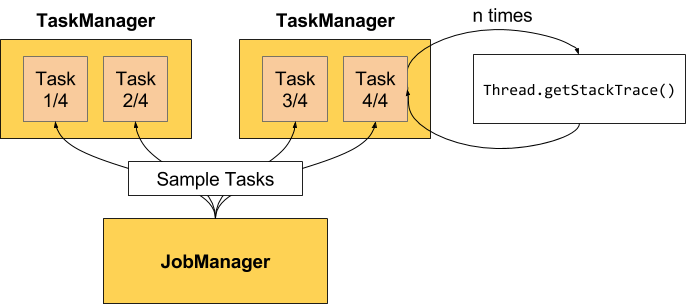
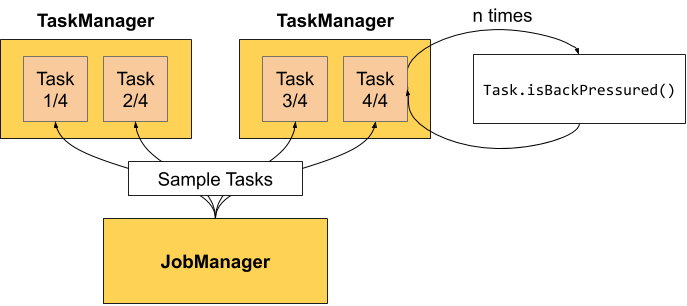
Fixup and update the document.

diff --git a/flink-runtime/src/test/java/org/apache/flink/runtime/rest/handler/legacy/backpressure/BackPressureStatsTrackerImplTest.java b/flink-runtime/src/test/java/org/apache/flink/runtime/rest/handler/legacy/backpressure/BackPressureStatsTrackerImplTest.java
@@ -20,6 +20,7 @@ package org.apache.flink.runtime.rest.handler.legacy.backpressure;
 
 import org.apache.flink.runtime.executiongraph.ExecutionAttemptID;
 import org.apache.flink.runtime.executiongraph.ExecutionJobVertex;
+import org.apache.flink.runtime.executiongraph.ExecutionJobVertexTest;
 import org.apache.flink.runtime.executiongraph.ExecutionVertex;
 import org.apache.flink.util.TestLogger;
 
@@ -45,39 +46,45 @@ public class BackPressureStatsTrackerImplTest extends TestLogger {
 
 	private static final int requestId = 0;
 	private static final double backPressureRatio = 0.1;
-	private static final ExecutionJobVertex executionJobVertex = BackPressureTrackerTestUtils.createExecutionJobVertex();
+	private static final ExecutionJobVertex executionJobVertex = createExecutionJobVertex();
 	private static final ExecutionVertex[] taskVertices = executionJobVertex.getTaskVertices();
 	private static final BackPressureStats backPressureStats = createBackPressureStats(requestId, 1, backPressureRatio);
+	private static final int cleanUpInterval = 60000;
+	private static final int backPressureStatsRefreshInterval = 60000;
+	private static final long timeGap = 60000;
 
 	@Rule
 	public Timeout caseTimeout = new Timeout(10, TimeUnit.SECONDS);
 
 	@Test
 	public void testGetOperatorBackPressureStats() throws Exception {
-		doInitialRequestAndVerifyTheResult(createBackPressureTracker(60000, 60000, backPressureStats));
+		doInitialRequestAndVerifyResult(createBackPressureTracker());
 	}
 
 	@Test
 	public void testCachedStatsNotUpdatedWithinRefreshInterval() throws Exception {
 		final double backPressureRatio2 = 0.2;
-		final BackPressureStats backPressureStats2 = createBackPressureStats(1, 60000, backPressureRatio2);
+		final int requestId2 = 1;
+		final BackPressureStats backPressureStats2 = createBackPressureStats(requestId2, timeGap, backPressureRatio2);
 
-		final BackPressureStatsTracker tracker = createBackPressureTracker(60000, 60000, backPressureStats, backPressureStats2);
-		doInitialRequestAndVerifyTheResult(tracker);
+		final BackPressureStatsTracker tracker = createBackPressureTracker(
+			cleanUpInterval, backPressureStatsRefreshInterval, backPressureStats, backPressureStats2);
+		doInitialRequestAndVerifyResult(tracker);
 		// verify that no new back pressure request is triggered
 		checkOperatorBackPressureStats(tracker.getOperatorBackPressureStats(executionJobVertex));
 	}
 
 	@Test
 	public void testCachedStatsUpdatedAfterRefreshInterval() throws Exception {
-		final int backPressureStatsRefreshInterval = 100;
-		final long waitingTime = backPressureStatsRefreshInterval + 100;
+		final int backPressureStatsRefreshInterval2 = 10;
+		final long waitingTime = backPressureStatsRefreshInterval2 + 10;
 		final double backPressureRatio2 = 0.2;
-		final BackPressureStats backPressureStats2 = createBackPressureStats(1, 60000, backPressureRatio2);
+		final int requestId2 = 1;
+		final BackPressureStats backPressureStats2 = createBackPressureStats(requestId2, timeGap, backPressureRatio2);
 
 		final BackPressureStatsTracker tracker = createBackPressureTracker(
-			60000, backPressureStatsRefreshInterval, backPressureStats, backPressureStats2);
-		doInitialRequestAndVerifyTheResult(tracker);
+			cleanUpInterval, backPressureStatsRefreshInterval2, backPressureStats, backPressureStats2);
+		doInitialRequestAndVerifyResult(tracker);
 
 		// ensure that we are ready for next request
 		Thread.sleep(waitingTime);
@@ -89,8 +96,8 @@ public class BackPressureStatsTrackerImplTest extends TestLogger {
 
 	@Test
 	public void testShutDown() throws Exception {
-		final BackPressureStatsTracker tracker = createBackPressureTracker(60000, 60000, backPressureStats);
-		doInitialRequestAndVerifyTheResult(tracker);
+		final BackPressureStatsTracker tracker = createBackPressureTracker();
+		doInitialRequestAndVerifyResult(tracker);
 
 		// shutdown directly
 		tracker.shutDown();
@@ -103,8 +110,8 @@ public class BackPressureStatsTrackerImplTest extends TestLogger {
 
 	@Test
 	public void testCachedStatsNotCleanedWithinCleanupInterval() throws Exception {
-		final BackPressureStatsTracker tracker = createBackPressureTracker(60000, 60000, backPressureStats);
-		doInitialRequestAndVerifyTheResult(tracker);
+		final BackPressureStatsTracker tracker = createBackPressureTracker();
+		doInitialRequestAndVerifyResult(tracker);
 
 		tracker.cleanUpOperatorStatsCache();
 		// the back pressure stats should be still there
@@ -113,11 +120,12 @@ public class BackPressureStatsTrackerImplTest extends TestLogger {
 
 	@Test
 	public void testCachedStatsCleanedAfterCleanupInterval() throws Exception {
-		final int cleanUpInterval = 100;
-		final long waitingTime = cleanUpInterval + 100;
+		final int cleanUpInterval2 = 10;
+		final long waitingTime = cleanUpInterval2 + 10;
 
-		final BackPressureStatsTracker tracker = createBackPressureTracker(cleanUpInterval, 60000, backPressureStats);
-		doInitialRequestAndVerifyTheResult(tracker);
+		final BackPressureStatsTracker tracker = createBackPressureTracker(
+			cleanUpInterval2, backPressureStatsRefreshInterval, backPressureStats);
+		doInitialRequestAndVerifyResult(tracker);
 
 		// wait until we are ready to cleanup
 		Thread.sleep(waitingTime);
@@ -127,7 +135,7 @@ public class BackPressureStatsTrackerImplTest extends TestLogger {
 		assertFalse(tracker.getOperatorBackPressureStats(executionJobVertex).isPresent());
 	}
 
-	private void doInitialRequestAndVerifyTheResult(BackPressureStatsTracker tracker) {
+	private void doInitialRequestAndVerifyResult(BackPressureStatsTracker tracker) {
 		// trigger back pressure stats request
 		assertFalse(tracker.getOperatorBackPressureStats(executionJobVertex).isPresent());
 		//  verify the result
@@ -144,12 +152,18 @@ public class BackPressureStatsTrackerImplTest extends TestLogger {
 			Optional<OperatorBackPressureStats> optionalStats) {
 		assertTrue(optionalStats.isPresent());
 		OperatorBackPressureStats stats = optionalStats.get();
+
 		assertEquals(backPressureStats.getRequestId(), stats.getRequestId());
 		assertEquals(backPressureStats.getEndTime(), stats.getEndTimestamp());
 		assertEquals(taskVertices.length, stats.getNumberOfSubTasks());
+
 		for (int i = 0; i < stats.getNumberOfSubTasks(); i++) {
 			assertEquals(backPressureRatio, stats.getBackPressureRatio(i), 0.0);
 		}
+	}
+
+	private BackPressureStatsTracker createBackPressureTracker() {
+		return createBackPressureTracker(cleanUpInterval, backPressureStatsRefreshInterval, backPressureStats);
 	}
 
 	private BackPressureStatsTracker createBackPressureTracker(
@@ -160,9 +174,9 @@ public class BackPressureStatsTrackerImplTest extends TestLogger {
 		final BackPressureRequestCoordinator coordinator =
 			new TestingBackPressureRequestCoordinator(Runnable::run, 10000, stats);
 		return new BackPressureStatsTrackerImpl(
-				coordinator,
-				cleanUpInterval,
-				backPressureStatsRefreshInterval);
+			coordinator,
+			cleanUpInterval,
+			backPressureStatsRefreshInterval);
 	}
 
 	private static BackPressureStats createBackPressureStats(
@@ -180,18 +194,26 @@ public class BackPressureStatsTrackerImplTest extends TestLogger {
 		return new BackPressureStats(requestId, startTime, endTime, backPressureRatiosByTask);
 	}
 
+	private static ExecutionJobVertex createExecutionJobVertex() {
+		try {
+			return ExecutionJobVertexTest.createExecutionJobVertex(4, 4);
+		} catch (Exception e) {
+			throw new RuntimeException("Failed to create ExecutionJobVertex.");
+		}
+	}
+
 	/**
 	 * A {@link BackPressureRequestCoordinator} which returns the pre-generated back pressure stats directly.
 	 */
-	public static class TestingBackPressureRequestCoordinator extends BackPressureRequestCoordinator {
+	private static class TestingBackPressureRequestCoordinator extends BackPressureRequestCoordinator {
 
 		private final BackPressureStats[] backPressureStats;
 		private int counter = 0;
 
-		public TestingBackPressureRequestCoordinator(
-			Executor executor,
-			long requestTimeout,
-			BackPressureStats... backPressureStats) {
+		TestingBackPressureRequestCoordinator(
+				Executor executor,
+				long requestTimeout,
+				BackPressureStats... backPressureStats) {
 			super(executor, requestTimeout);
 			this.backPressureStats = backPressureStats;
 		}

diff --git a/flink-runtime/src/test/java/org/apache/flink/runtime/executiongraph/ExecutionJobVertexTest.java b/flink-runtime/src/test/java/org/apache/flink/runtime/executiongraph/ExecutionJobVertexTest.java
@@ -18,17 +18,24 @@
 
 package org.apache.flink.runtime.executiongraph;
 
+import org.apache.flink.api.common.ExecutionConfig;
+import org.apache.flink.api.common.JobID;
 import org.apache.flink.api.common.time.Time;
+import org.apache.flink.configuration.Configuration;
 import org.apache.flink.runtime.JobException;
-import org.apache.flink.runtime.concurrent.Executors;
+import org.apache.flink.runtime.akka.AkkaUtils;
+import org.apache.flink.runtime.executiongraph.restart.NoRestartStrategy;
 import org.apache.flink.runtime.jobgraph.JobVertex;
 import org.apache.flink.runtime.jobgraph.tasks.AbstractInvokable;
+import org.apache.flink.runtime.testingUtils.TestingUtils;
+import org.apache.flink.runtime.testutils.DirectScheduledExecutorService;
+import org.apache.flink.util.SerializedValue;
 
 import org.junit.Assert;
 import org.junit.Test;
 
-import static org.mockito.Mockito.mock;
-import static org.mockito.Mockito.when;
+import java.io.IOException;
+import java.util.concurrent.CompletableFuture;
 
 public class ExecutionJobVertexTest {
 
@@ -122,10 +129,9 @@ public class ExecutionJobVertexTest {
 
 	//------------------------------------------------------------------------------------------------------
 
-	private static ExecutionJobVertex createExecutionJobVertex(
+	public static ExecutionJobVertex createExecutionJobVertex(
 			int parallelism,
-			int preconfiguredMaxParallelism) throws JobException {
-
+			int preconfiguredMaxParallelism) throws IOException, JobException {
 		JobVertex jobVertex = new JobVertex("testVertex");
 		jobVertex.setInvokableClass(AbstractInvokable.class);
 		jobVertex.setParallelism(parallelism);
@@ -134,11 +140,24 @@ public class ExecutionJobVertexTest {
 			jobVertex.setMaxParallelism(preconfiguredMaxParallelism);
 		}
 
-		ExecutionGraph executionGraphMock = mock(ExecutionGraph.class);
-		when(executionGraphMock.getFutureExecutor()).thenReturn(Executors.directExecutor());
+		ExecutionGraph executionGraph = createExecutionGraph();
 		ExecutionJobVertex executionJobVertex =
-				new ExecutionJobVertex(executionGraphMock, jobVertex, 1, Time.seconds(10));
-
+			new ExecutionJobVertex(executionGraph, jobVertex, 1, Time.seconds(10));
 		return executionJobVertex;
+	}
+
+	private static ExecutionGraph createExecutionGraph() throws IOException {
+		final ExecutionGraph executionGraph = new ExecutionGraph(
+			new DirectScheduledExecutorService(),
+			TestingUtils.defaultExecutor(),
+			new JobID(),
+			"testExecutionGraph",
+			new Configuration(),
+			new SerializedValue<>(new ExecutionConfig()),
+			AkkaUtils.getDefaultTimeout(),
+			new NoRestartStrategy(),
+			new TestingSlotProvider(ignored -> new CompletableFuture<>()));
+		executionGraph.transitionToRunning();
+		return executionGraph;
 	}
 }

diff --git a/flink-runtime/src/test/java/org/apache/flink/runtime/rest/handler/legacy/backpressure/BackPressureRequestCoordinatorTest.java b/flink-runtime/src/test/java/org/apache/flink/runtime/rest/handler/legacy/backpressure/BackPressureRequestCoordinatorTest.java
@@ -24,6 +24,7 @@ import org.apache.flink.runtime.execution.ExecutionState;
 import org.apache.flink.runtime.executiongraph.Execution;
 import org.apache.flink.runtime.executiongraph.ExecutionAttemptID;
 import org.apache.flink.runtime.executiongraph.ExecutionJobVertex;
+import org.apache.flink.runtime.executiongraph.ExecutionJobVertexTest;
 import org.apache.flink.runtime.executiongraph.ExecutionVertex;
 import org.apache.flink.runtime.executiongraph.IntermediateResult;
 import org.apache.flink.runtime.messages.TaskBackPressureResponse;
@@ -221,13 +222,11 @@ public class BackPressureRequestCoordinatorTest extends TestLogger {
 			CompletionType completionType,
 			long requestTimeout) throws Exception {
 		return new TestingExecutionVertex(
-			BackPressureTrackerTestUtils.createExecutionJobVertex(),
+			ExecutionJobVertexTest.createExecutionJobVertex(4, 4),
 			subTaskIndex,
-			new IntermediateResult[0],
 			Time.seconds(10),
 			1L,
 			System.currentTimeMillis(),
-			JobManagerOptions.MAX_ATTEMPTS_HISTORY_SIZE.defaultValue(),
 			state,
 			completionType,
 			requestTimeout);
@@ -253,11 +252,9 @@ public class BackPressureRequestCoordinatorTest extends TestLogger {
 		TestingExecutionVertex(
 				ExecutionJobVertex jobVertex,
 				int subTaskIndex,
-				IntermediateResult[] producedDataSets,
 				Time timeout,
 				long initialGlobalModVersion,
 				long createTimestamp,
-				int maxPriorExecutionHistoryLength,
 				ExecutionState state,
 				CompletionType completionType,
 				long requestTimeout) {
@@ -265,11 +262,11 @@ public class BackPressureRequestCoordinatorTest extends TestLogger {
 			super(
 				jobVertex,
 				subTaskIndex,
-				producedDataSets,
+				new IntermediateResult[0],
 				timeout,
 				initialGlobalModVersion,
 				createTimestamp,
-				maxPriorExecutionHistoryLength);
+				JobManagerOptions.MAX_ATTEMPTS_HISTORY_SIZE.defaultValue());
 			execution = new TestingExecution(
 				Runnable::run,
 				this,

diff --git a/flink-core/src/main/java/org/apache/flink/configuration/WebOptions.java b/flink-core/src/main/java/org/apache/flink/configuration/WebOptions.java
@@ -154,22 +154,22 @@ public class WebOptions {
 				" (by resampling).");
 
 	/**
-	 * Number of stack trace samples to take to determine back pressure.
+	 * Number of samples to take to determine back pressure.
 	 */
 	public static final ConfigOption<Integer> BACKPRESSURE_NUM_SAMPLES =
 		key("web.backpressure.num-samples")
 			.defaultValue(100)
 			.withDeprecatedKeys("jobmanager.web.backpressure.num-samples")
-			.withDescription("Number of stack trace samples to take to determine back pressure.");
+			.withDescription("Number of samples to take to determine back pressure.");
 
 	/**
-	 * Delay between stack trace samples to determine back pressure in milliseconds.
+	 * Delay between samples to determine back pressure in milliseconds.
 	 */
 	public static final ConfigOption<Integer> BACKPRESSURE_DELAY =
 		key("web.backpressure.delay-between-samples")
 			.defaultValue(50)
 			.withDeprecatedKeys("jobmanager.web.backpressure.delay-between-samples")
-			.withDescription("Delay between stack trace samples to determine back pressure in milliseconds.");
+			.withDescription("Delay between samples to determine back pressure in milliseconds.");
 
 	/**
 	 * Timeout for asynchronous operations by the web monitor in milliseconds.

diff --git a/flink-core/src/main/java/org/apache/flink/configuration/ConfigConstants.java b/flink-core/src/main/java/org/apache/flink/configuration/ConfigConstants.java
@@ -813,7 +813,7 @@ public final class ConfigConstants {
 	public static final String JOB_MANAGER_WEB_BACK_PRESSURE_REFRESH_INTERVAL = "jobmanager.web.backpressure.refresh-interval";
 
 	/**
-	 * Number of stack trace samples to take to determine back pressure.
+	 * Number of samples to take to determine back pressure.
 	 *
 	 * @deprecated Use {@link WebOptions#BACKPRESSURE_NUM_SAMPLES} instead.
 	 */
@@ -821,7 +821,7 @@ public final class ConfigConstants {
 	public static final String JOB_MANAGER_WEB_BACK_PRESSURE_NUM_SAMPLES = "jobmanager.web.backpressure.num-samples";
 
 	/**
-	 * Delay between stack trace samples to determine back pressure.
+	 * Delay between samples to determine back pressure.
 	 *
 	 * @deprecated Use {@link WebOptions#BACKPRESSURE_DELAY} instead.
 	 */

diff --git a/flink-runtime/src/main/java/org/apache/flink/runtime/rest/handler/legacy/backpressure/BackPressureStatsTracker.java b/flink-runtime/src/main/java/org/apache/flink/runtime/rest/handler/legacy/backpressure/BackPressureStatsTracker.java
@@ -29,7 +29,7 @@ import java.util.Optional;
 public interface BackPressureStatsTracker {
 
 	/**
-	 * Returns back pressure statistics for a operator. Automatically triggers stack trace sampling
+	 * Returns back pressure statistics for an operator. Automatically triggers back pressure request
 	 * if statistics are not available or outdated.
 	 *
 	 * @param vertex Operator to get the stats for.

diff --git a/docs/monitoring/back_pressure.md b/docs/monitoring/back_pressure.md
@@ -34,30 +34,28 @@ If you see a **back pressure warning** (e.g. `High`) for a task, this means that
 Take a simple `Source -> Sink` job as an example. If you see a warning for `Source`, this means that `Sink` is consuming data slower than `Source` is producing. `Sink` is back pressuring the upstream operator `Source`.
 
 
-## Sampling Threads
+## Sampling Tasks
 
-Back pressure monitoring works by repeatedly taking stack trace samples of your running tasks. The JobManager triggers repeated calls to `Thread.getStackTrace()` for the tasks of your job.
+Back pressure monitoring works by repeatedly taking samples of your running tasks. The JobManager triggers repeated calls to `Task.isBackPressured()` for the tasks of your job.
 
 <img src="{{ site.baseurl }}/fig/back_pressure_sampling.png" class="img-responsive">
-<!-- https://docs.google.com/drawings/d/1_YDYGdUwGUck5zeLxJ5Z5jqhpMzqRz70JxKnrrJUltA/edit?usp=sharing -->
+<!-- https://docs.google.com/drawings/d/1O5Az3Qq4fgvnISXuSf-MqBlsLDpPolNB7EQG7A3dcTk/edit?usp=sharing -->
 
-If the samples show that a task Thread is stuck in a certain internal method call (requesting buffers from the network stack), this indicates that there is back pressure for the task.
-
-By default, the job manager triggers 100 stack traces every 50ms for each task in order to determine back pressure. The ratio you see in the web interface tells you how many of these stack traces were stuck in the internal method call, e.g. `0.01` indicates that only 1 in 100 was stuck in that method.
+By default, the job manager triggers 100 samples every 50ms for each task in order to determine back pressure. The ratio you see in the web interface tells you how many of these sample were indicating back pressure, e.g. `0.01` indicates that only 1 in 100 was back pressured.
 
 - **OK**: 0 <= Ratio <= 0.10
 - **LOW**: 0.10 < Ratio <= 0.5
 - **HIGH**: 0.5 < Ratio <= 1
 
-In order to not overload the task managers with stack trace samples, the web interface refreshes samples only after 60 seconds.
+In order to not overload the task managers with samples, the web interface refreshes samples only after 60 seconds.
 
 ## Configuration
 
 You can configure the number of samples for the job manager with the following configuration keys:
 
 - `web.backpressure.refresh-interval`: Time after which available stats are deprecated and need to be refreshed (DEFAULT: 60000, 1 min).
-- `web.backpressure.num-samples`: Number of stack trace samples to take to determine back pressure (DEFAULT: 100).
-- `web.backpressure.delay-between-samples`: Delay between stack trace samples to determine back pressure (DEFAULT: 50, 50 ms).
+- `web.backpressure.num-samples`: Number of samples to take to determine back pressure (DEFAULT: 100).
+- `web.backpressure.delay-between-samples`: Delay between samples to determine back pressure (DEFAULT: 50, 50 ms).
 
 
 ## Example
@@ -66,7 +64,7 @@ You can find the *Back Pressure* tab next to the job overview.
 
 ### Sampling In Progress
 
-This means that the JobManager triggered a stack trace sample of the running tasks. With the default configuration, this takes about 5 seconds to complete.
+This means that the JobManager triggered a sample of the running tasks. With the default configuration, this takes about 5 seconds to complete.
 
 Note that clicking the row, you trigger the sample for all subtasks of this operator.
 
